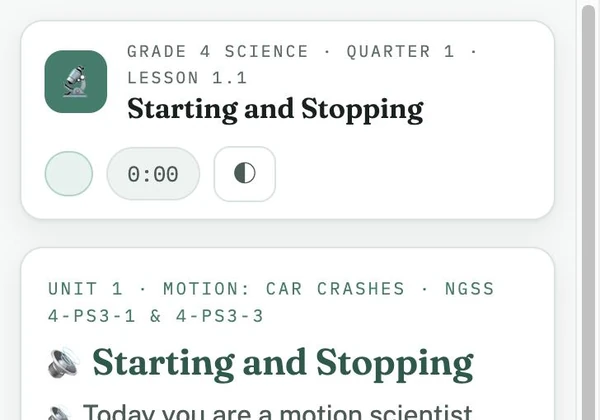
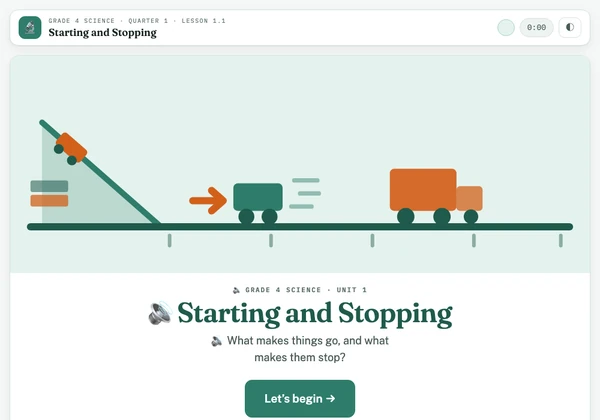
fix: science card picture shows the new cover
The thumbnail was a shot of the old intro screen. Replaced with the
current cover (ramp, cart, truck, title, Let's begin) in light mode;
?v=2 so browsers fetch the new picture.

diff --git a/index.html b/index.html
@@ -368,7 +368,7 @@
 
         <a href="https://molivera1977.github.io/science-starting-and-stopping/" class="card" target="_blank">
             <div class="card-image">
-                <img loading="lazy" src="images/science-starting-stopping.webp?v=1" alt="Science: Starting and Stopping">
+                <img loading="lazy" src="images/science-starting-stopping.webp?v=2" alt="Science: Starting and Stopping">
             </div>
             <div class="card-content">
                 <div class="card-title">Science: Starting and Stopping</div>
